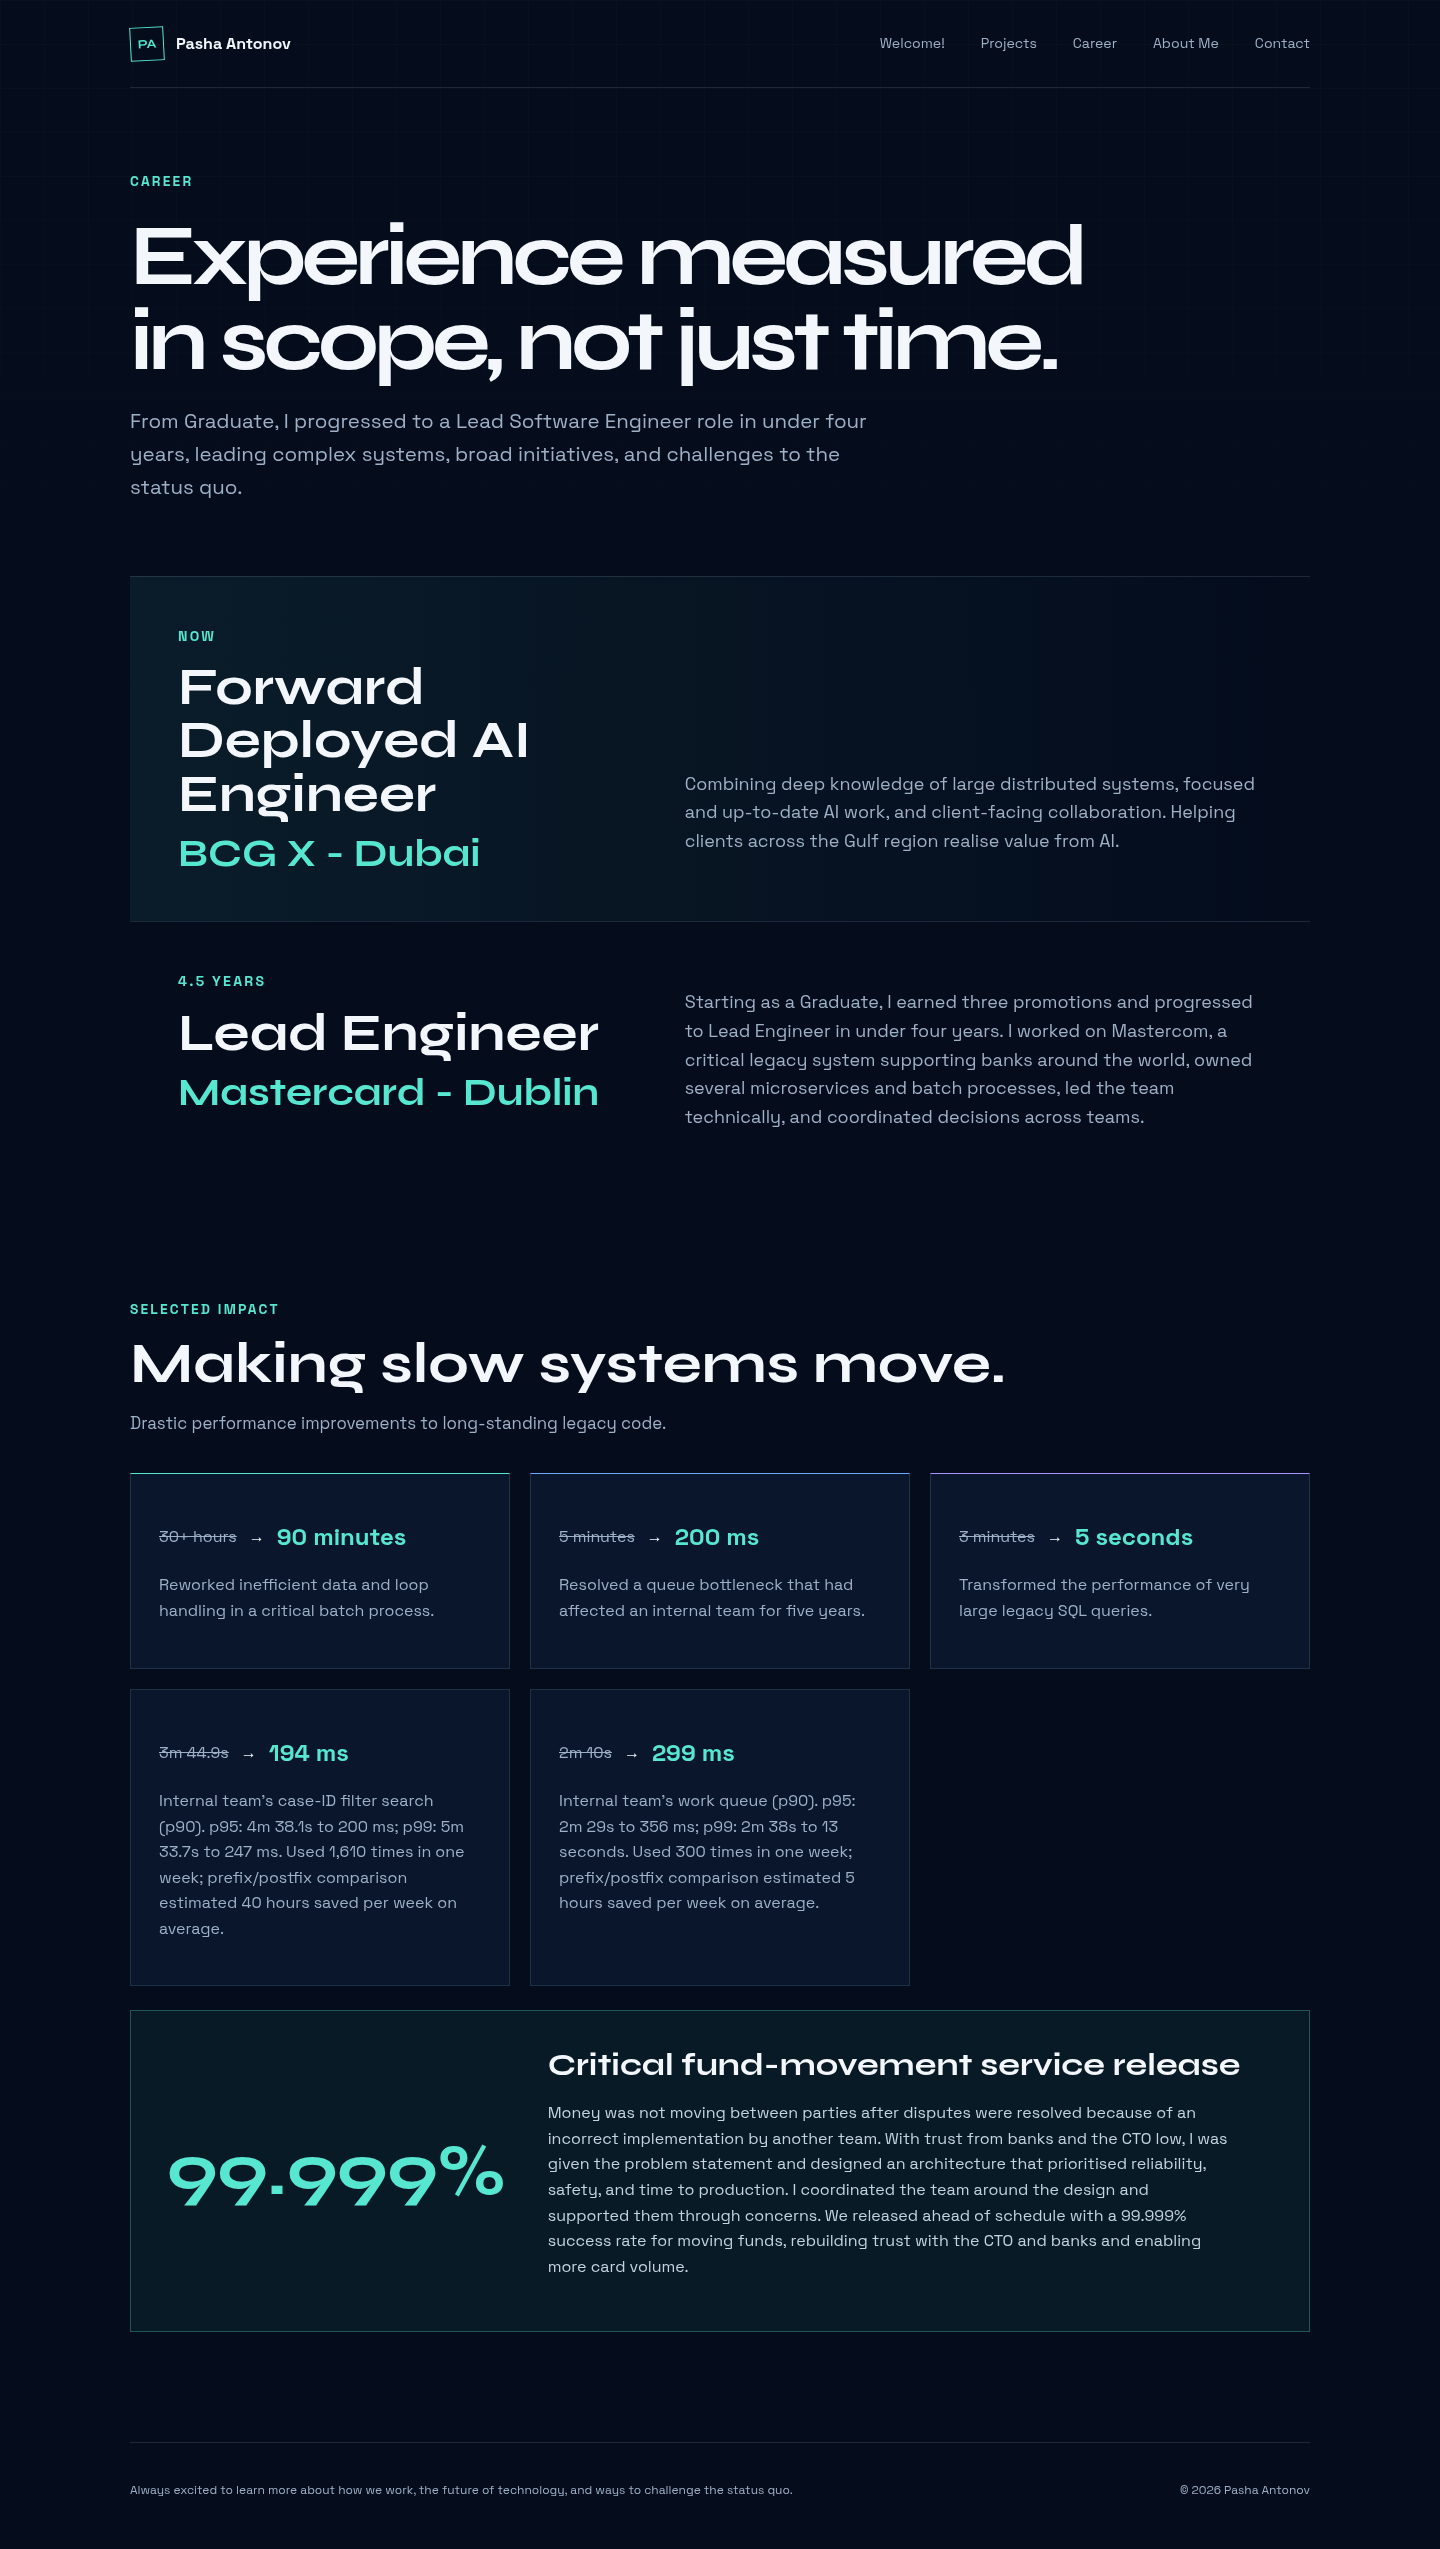
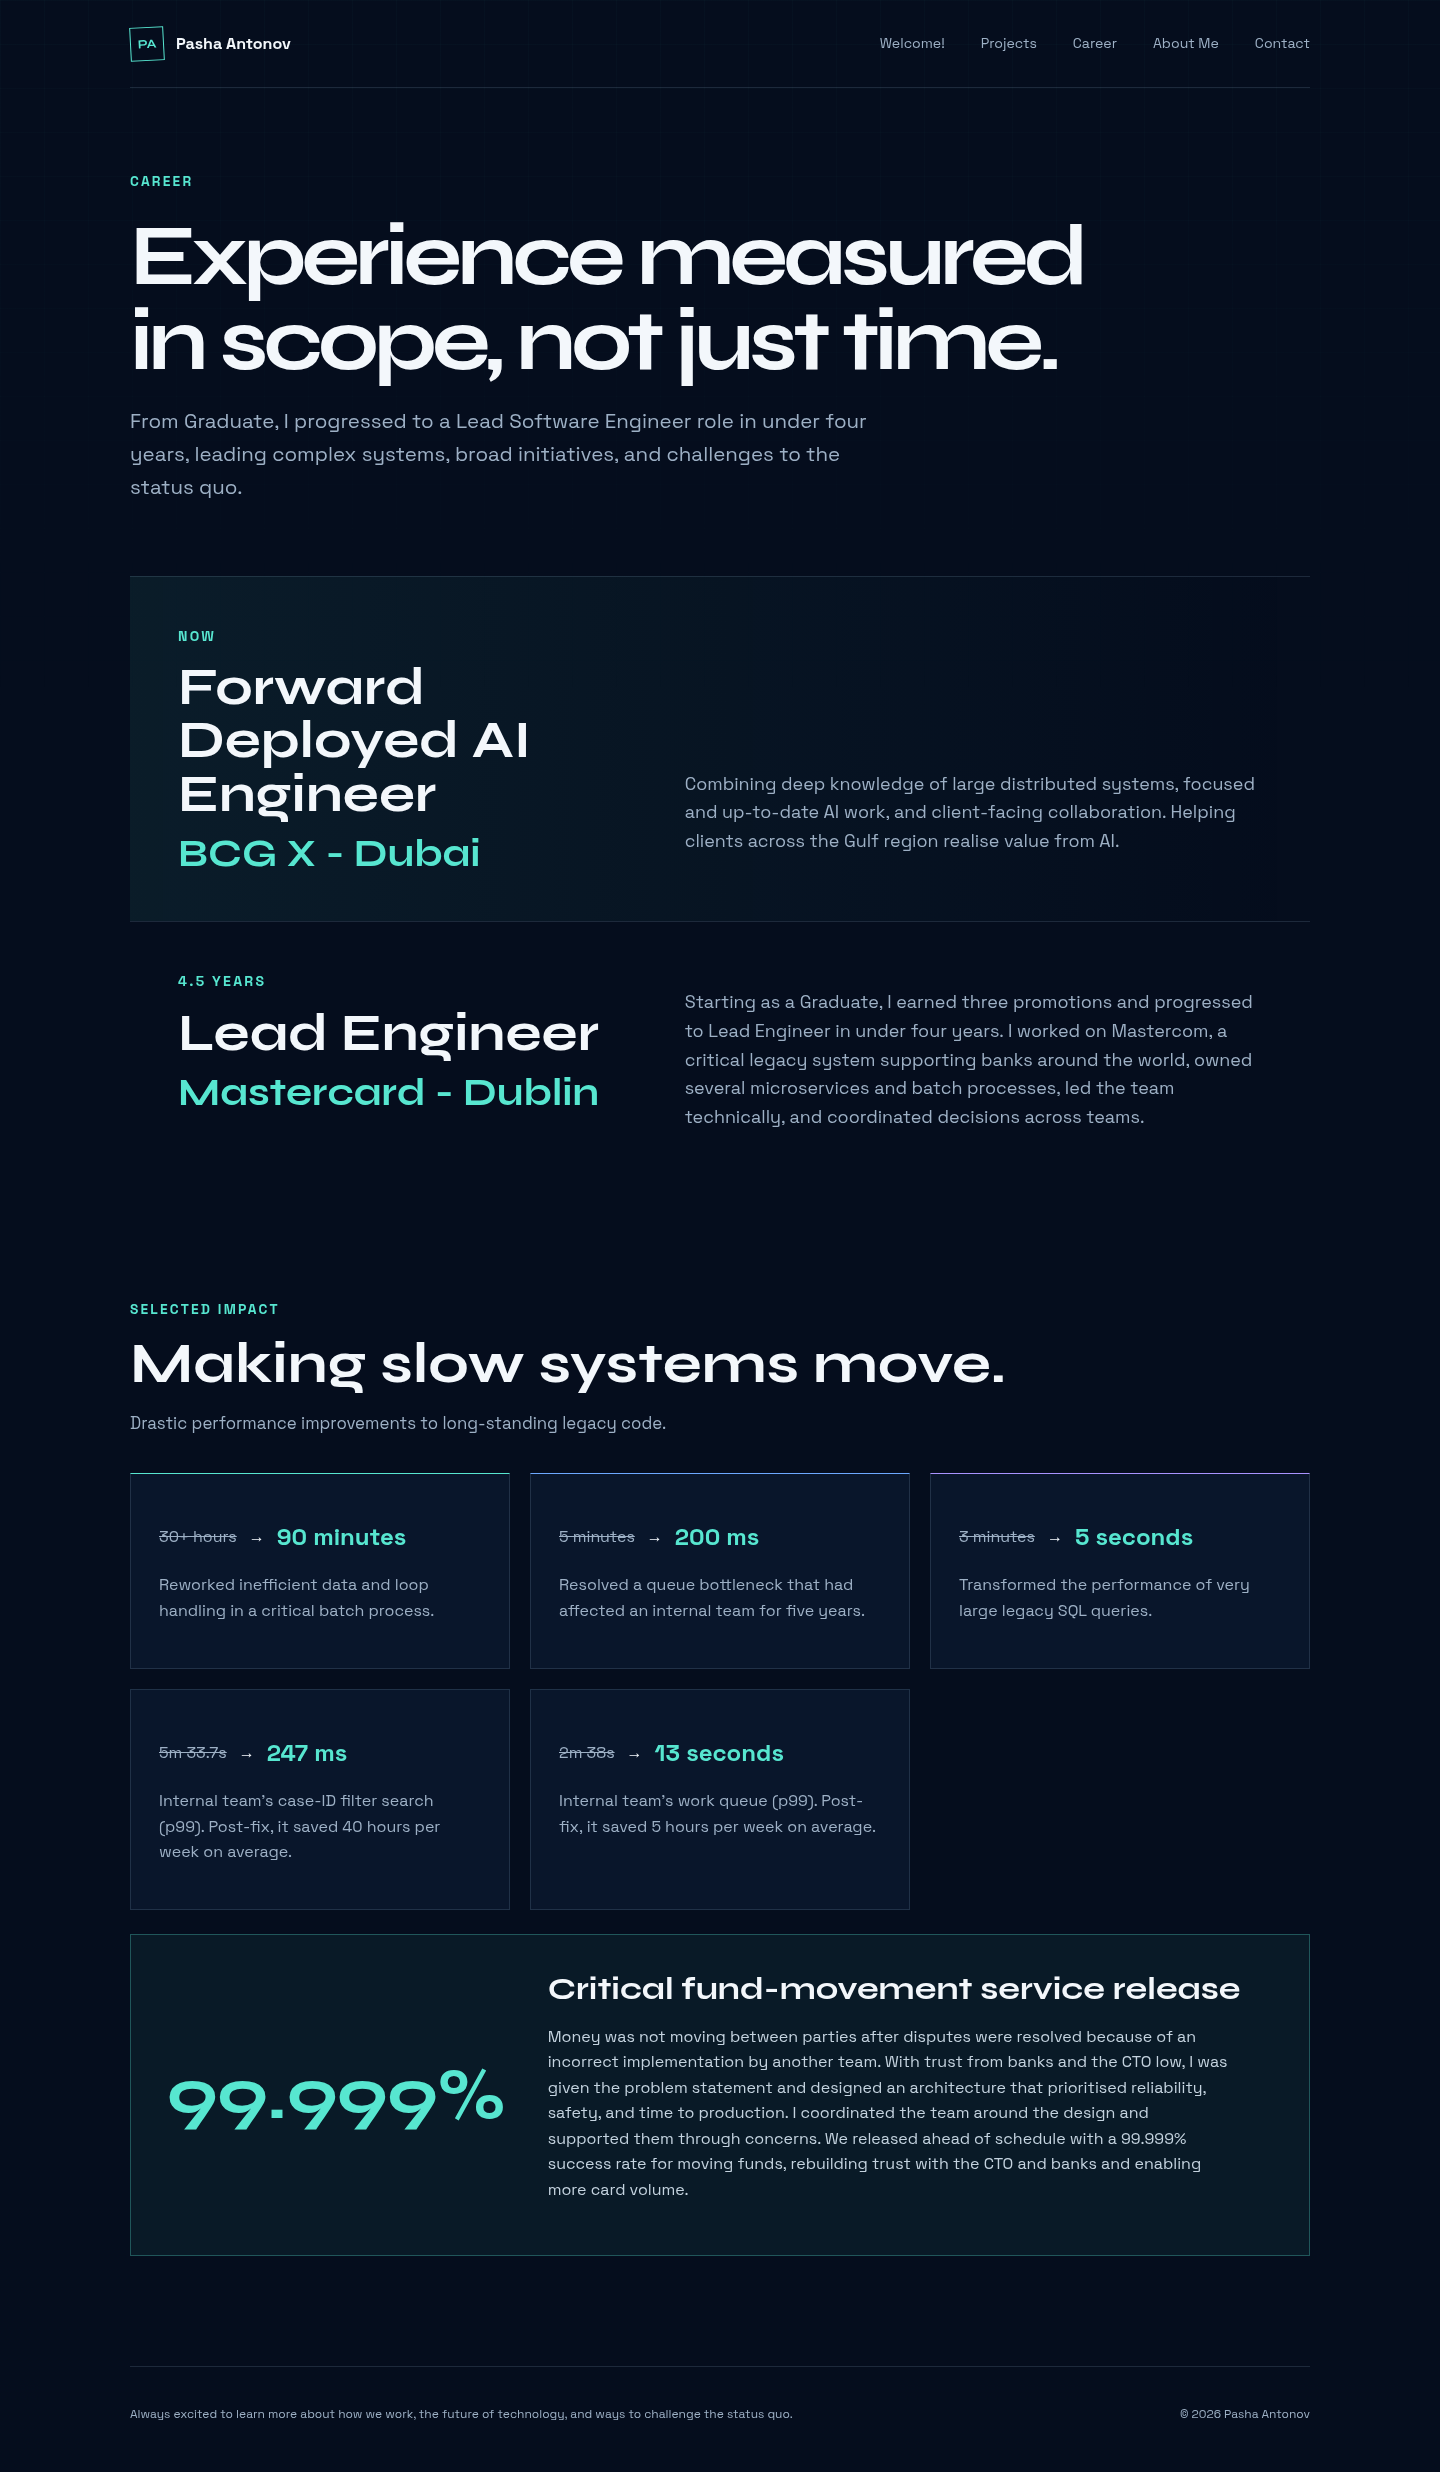
Simplify performance achievement summaries

diff --git a/tests/e2e/navigation.spec.ts b/tests/e2e/navigation.spec.ts
@@ -124,13 +124,13 @@ test("proposal content and ordering are rendered", async ({ page }) => {
     page.getByText("Mastercard - Dublin", { exact: true }),
   ).toBeVisible();
   await expect(page.getByText("4.5 years", { exact: true })).toBeVisible();
-  await expect(page.getByText("194 ms", { exact: true })).toBeVisible();
-  await expect(page.getByText("299 ms", { exact: true })).toBeVisible();
+  await expect(page.getByText("247 ms", { exact: true })).toBeVisible();
+  await expect(page.getByText("13 seconds", { exact: true })).toBeVisible();
   await expect(
-    page.getByText(/estimated 40 hours saved per week/),
+    page.getByText(/saved 40 hours per week on average/),
   ).toBeVisible();
   await expect(
-    page.getByText(/estimated 5 hours saved per week/),
+    page.getByText(/saved 5 hours per week on average/),
   ).toBeVisible();
   await expect(page.getByText("Over 4.5 years", { exact: true })).toHaveCount(
     0,

diff --git a/app/career/page.tsx b/app/career/page.tsx
@@ -19,14 +19,14 @@ const achievements = [
     "Transformed the performance of very large legacy SQL queries.",
   ],
   [
-    "3m 44.9s",
-    "194 ms",
-    "Internal team's case-ID filter search (p90). p95: 4m 38.1s to 200 ms; p99: 5m 33.7s to 247 ms. Used 1,610 times in one week; prefix/postfix comparison estimated 40 hours saved per week on average.",
+    "5m 33.7s",
+    "247 ms",
+    "Internal team's case-ID filter search (p99). Post-fix, it saved 40 hours per week on average.",
   ],
   [
-    "2m 10s",
-    "299 ms",
-    "Internal team's work queue (p90). p95: 2m 29s to 356 ms; p99: 2m 38s to 13 seconds. Used 300 times in one week; prefix/postfix comparison estimated 5 hours saved per week on average.",
+    "2m 38s",
+    "13 seconds",
+    "Internal team's work queue (p99). Post-fix, it saved 5 hours per week on average.",
   ],
 ] as const;
 

diff --git a/questionnaire.md b/questionnaire.md
@@ -49,13 +49,10 @@ Include measurable results where they are public and safe to share.
   milliseconds.
 - Reduced very large legacy SQL query runtimes from three minutes to five
   seconds.
-- Improved an internal team's case-ID filter search from 3m 44.9s to 194 ms at
-  p90 (p95: 4m 38.1s to 200 ms; p99: 5m 33.7s to 247 ms). It was used 1,610
-  times in one week; a prefix/postfix comparison estimated 40 hours saved per
-  week.
-- Improved an internal team's work queue from 2m 10s to 299 ms at p90 (p95:
-  2m 29s to 356 ms; p99: 2m 38s to 13 seconds). It was used 300 times in one
-  week; a prefix/postfix comparison estimated 5 hours saved per week.
+- Improved an internal team's case-ID filter search from 5m 33.7s to 247 ms at
+  p99; post-fix it saved an average of 40 hours per week.
+- Improved an internal team's work queue from 2m 38s to 13 seconds at p99;
+  post-fix it saved an average of 5 hours per week.
 - Reached a Tech Lead role within four years of beginning his career.
 
 ### Are there career details from your CV that should not appear publicly?

diff --git a/CHANGELOG.md b/CHANGELOG.md
@@ -7,8 +7,8 @@ in `SPEC.md`; this file records what changed rather than what is planned.
 
 ### Added
 
-- Mastercard internal search and queue performance results, including percentile
-  latency and estimated weekly time savings.
+- Mastercard internal search and queue p99 latency and average weekly time
+  savings.
 - Quartertrace, Pascal's first SaaS product, as a featured website-linked project.
 - Initial repository guidance for contributors and coding agents.
 - Project overview and documentation map.
